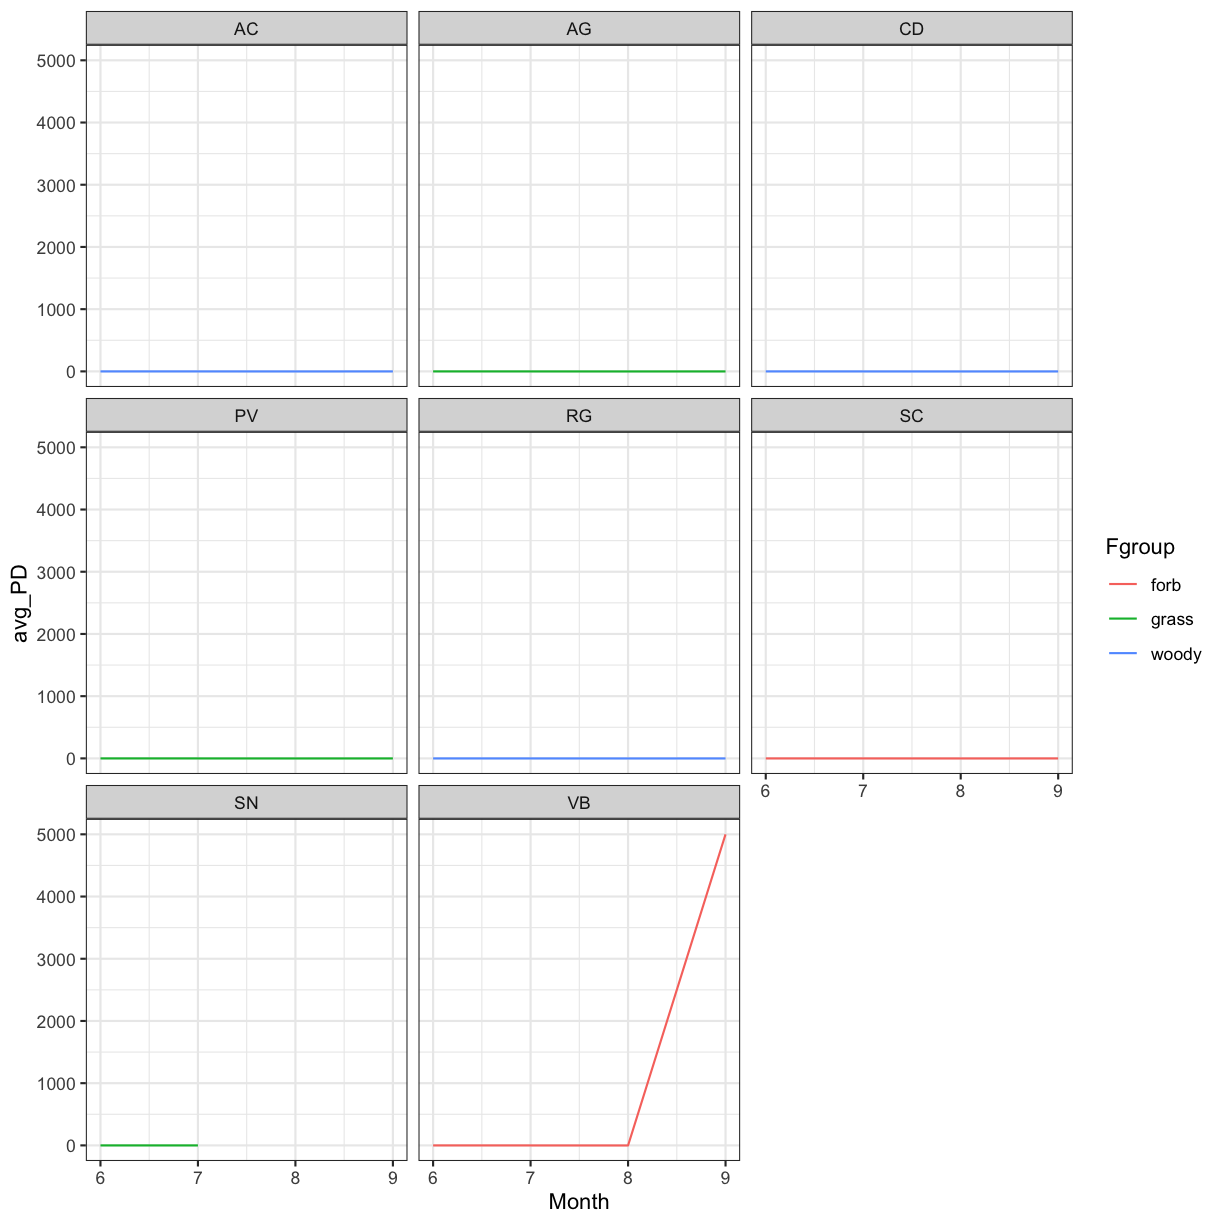
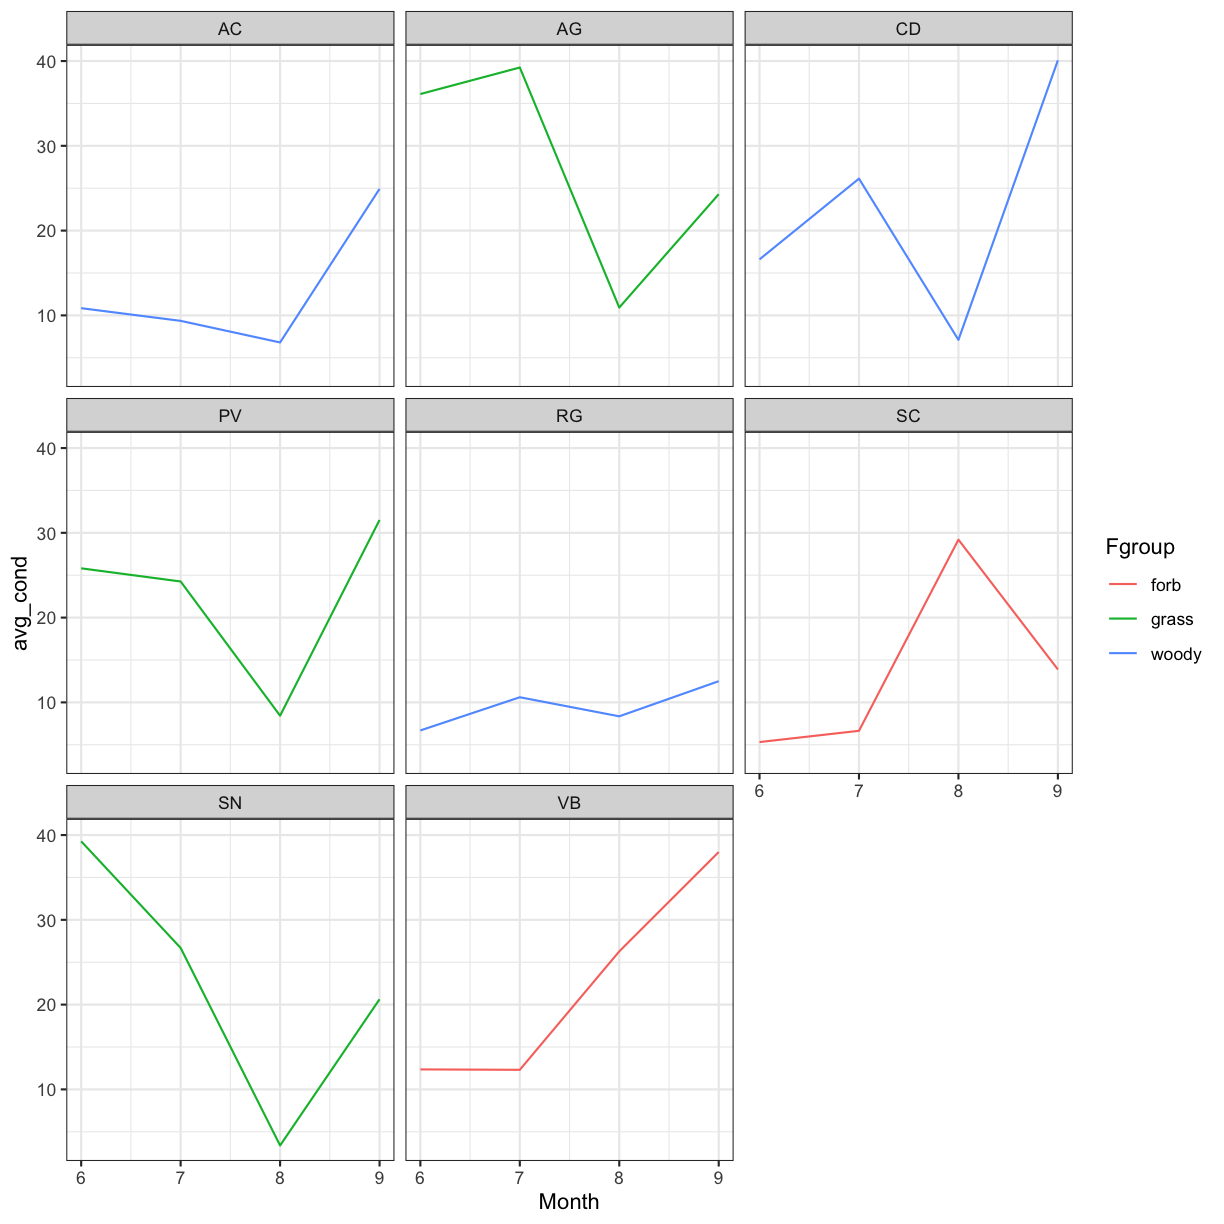
fixed challenge 4 in ggplot

diff --git a/_episodes/04-visualization-ggplot2.md b/_episodes/04-visualization-ggplot2.md
@@ -450,19 +450,19 @@ themes.
 
 > ## Challenge 4
 >
-> Use what you just learned to create a plot that depicts how the average `PD`
+> Use what you just learned to create a plot that depicts how the average `MD`
 > of each species changes over a season. Color the lines by functional group.
 > 
 > > ## Solution to Challenge 4
 > > 
 > > ~~~
-> >          seasonPD <- plant_phys %>%
+> >          seasonCond <- plant_phys %>%
 > >                group_by(Month, Species, Fgroup) %>%
-> >                summarize(avg_PD = mean(PD))
+> >                summarize(avg_cond = mean(Percent_cond))
 > > 
-> >         ggplot(data = seasonPD, 
+> >         ggplot(data = seasonCond, 
 > >                mapping = aes(x=Month, 
-> >                              y=avg_PD, 
+> >                              y=avg_cond, 
 > >                              color = Fgroup)) +
 > >         geom_line() +
 > >         facet_wrap(~ Species) +
